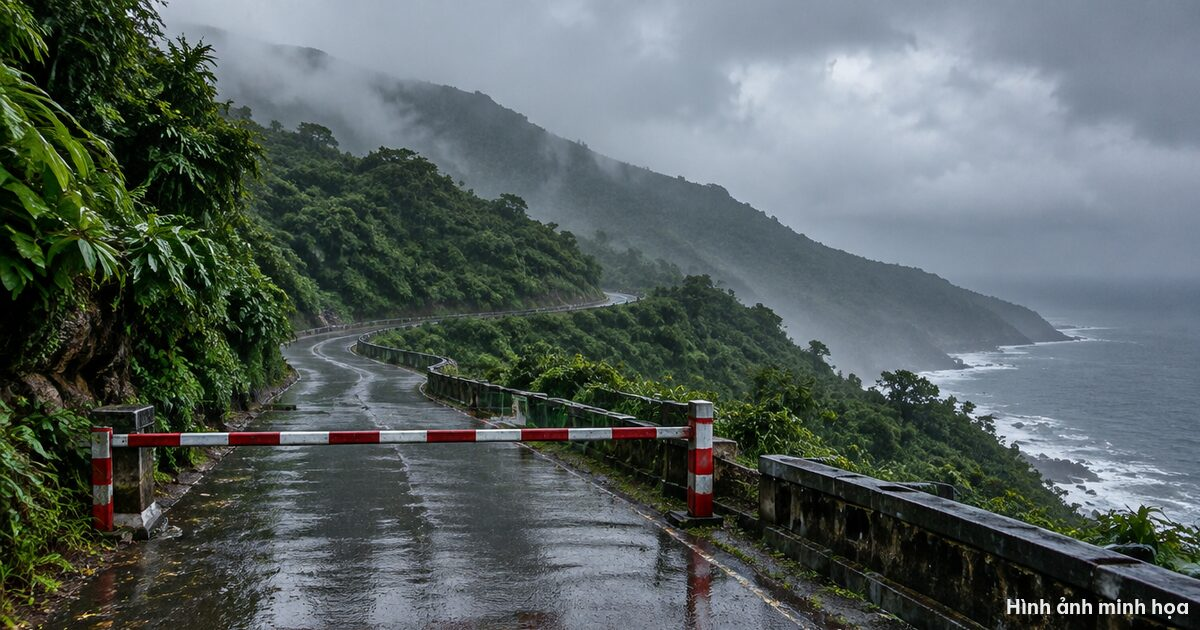
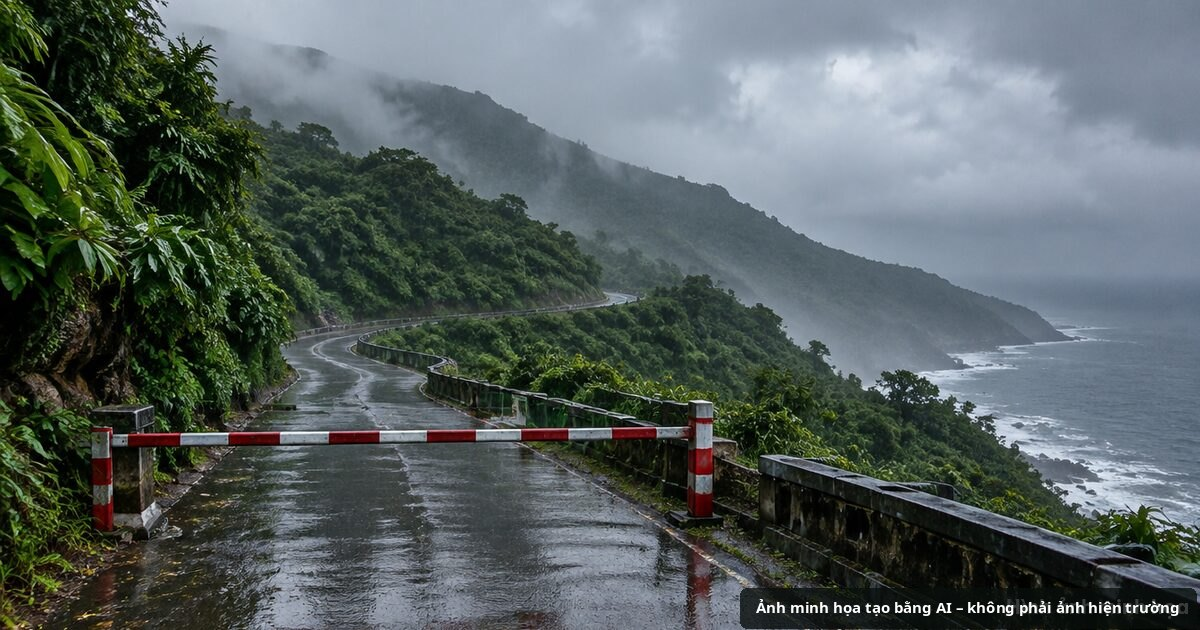
content: sửa 2 bài tin 09–10/10 theo Review
Chỉnh câu chữ bài thanh khoản và bài tạm dừng Sơn Trà, gắn nhãn ảnh AI, thêm caption hero bài thanh khoản, cập nhật nguồn và giờ trên infographic Sơn Trà.

Changed region(s): [[0.6167, 0.9349, 1.0, 1.0]]

diff --git a/src/data/project.ts b/src/data/project.ts
@@ -267,6 +267,8 @@ export type NewsArticle = {
   image: string;
   /** Alt for the cover / OG image. Falls back to the article title. */
   imageAlt?: string;
+  /** Optional caption under the article hero. Other articles omit it. */
+  imageCaption?: string;
   poster?: string;
   /**
    * Optional Tailwind object-position for card/cover crops (e.g. "object-top").
@@ -308,15 +310,15 @@ export const NEWS: NewsArticle[] = [
     ],
     body: [
       {
-        text: "Ngày 08/10/2026, Ban Quản lý bán đảo Sơn Trà và các bãi biển du lịch Đà Nẵng (BQL) thông báo tạm dừng hoạt động tham quan tại bán đảo Sơn Trà từ ngày 08/10 cho đến khi có thông báo mới, do dự báo mưa to đến rất to, tiềm ẩn nguy cơ sạt lở đất và lũ quét. Đến tối 09/10, theo VTV, thành phố tiếp tục tạm dừng tham quan và chỉ mở lại khi điều kiện an toàn được bảo đảm. Bài viết cập nhật tình hình đến sáng 10/10/2026, nối tiếp bài lưu ý lên bán đảo tháng 10 đăng ngày 06/10. Đây là tin địa phương tổng hợp, không phải thông báo của BQL và không phải thông cáo của The Camellia Sơn Trà.",
+        text: "Ngày 08/10/2026, Ban Quản lý bán đảo Sơn Trà và các bãi biển du lịch Đà Nẵng (BQL) thông báo tạm dừng hoạt động tham quan tại bán đảo Sơn Trà từ ngày 08/10 cho đến khi có thông báo mới, do dự báo mưa to đến rất to, tiềm ẩn nguy cơ sạt lở đất và lũ quét. Đến tối 09/10, theo VTV, thành phố tiếp tục tạm dừng tham quan và chỉ mở lại khi điều kiện an toàn được bảo đảm. Bài viết cập nhật tình hình đến 17h30 ngày 10/10/2026, nối tiếp bài lưu ý lên bán đảo tháng 10 đăng ngày 06/10. Đây là tin địa phương tổng hợp, không phải thông báo của BQL và không phải thông cáo của The Camellia Sơn Trà.",
       },
       {
         heading: "Tóm tắt nhanh (đọc trong 30 giây)",
-        text: "• Từ 08/10/2026: tạm dừng toàn bộ hoạt động tham quan bán đảo Sơn Trà, đến khi có thông báo mới; thời điểm mở lại chưa được xác định. • Lý do: mưa to đến rất to từ chiều tối 07/10; đất gần bão hòa; nguy cơ sạt lở taluy, đá rơi, cây gãy đổ, nước chảy xiết trên đường đèo. • Khuyến cáo: không tự ý lên bán đảo, kể cả khi trời tạnh; không dừng xe gần vách núi, taluy, dưới cây lớn; gặp đoạn ngập hoặc đất đá chắn lối thì quay lại. • Dự báo (bản tin PCTT TP ngày 09/10): 10–11/10 còn có nơi mưa vừa đến mưa to và dông; từ 14/10 mưa có xu hướng giảm. • Khi mở lại, giờ tham quan tháng 10 đến hết tháng 2 là 7h30–17h30.",
+        text: "• Từ 08/10/2026: tạm dừng hoạt động tham quan bán đảo Sơn Trà đến khi có thông báo mới; thời điểm mở lại chưa được xác định. • Lý do: mưa to đến rất to từ chiều tối 07/10; đất gần bão hòa; nguy cơ sạt lở taluy, đá rơi, cây gãy đổ, nước chảy xiết trên đường đèo. • Khuyến cáo: không tự ý lên bán đảo, kể cả khi trời tạnh; không dừng xe gần vách núi, taluy, dưới cây lớn; gặp đoạn ngập hoặc đất đá chắn lối thì quay lại. • Dự báo (Đài KTTV Trung Bộ, bản tin ngày 09/10): 10–11/10 còn có nơi mưa vừa đến mưa to và dông; từ 14/10 mưa có xu hướng giảm. • Khi mở lại, giờ tham quan tháng 10 đến hết tháng 2 là 7h30–17h30.",
       },
       {
         heading: "Vì sao phải tạm dừng?",
-        text: "Theo VnExpress (08/10/2026), Trung tâm Dự báo Khí tượng Thủy văn quốc gia cho biết mưa to đến rất to tại Đà Nẵng kéo dài từ chiều tối 07/10 đến đêm 08/10, sau đó giảm dần từ 09/10; nhiều tuyến đường phía nam thành phố ngập sâu gần nửa mét. BQL cho biết khu vực bán đảo thường có dông lốc và gió mạnh; các tuyến đường nhiều đoạn đèo dốc, khúc cua gấp, dễ trơn trượt khi mưa, sương mù làm hạn chế tầm nhìn, cùng nguy cơ cây gãy đổ, đá rơi từ vách núi và nước chảy xiết trên mặt đường. Bản tin cảnh báo lũ quét, sạt lở đất chiều 08/10 của cơ quan phòng chống thiên tai TP Đà Nẵng ghi nhận độ ẩm đất trên địa bàn đã gần bão hòa (80–90%) và liệt kê phường Sơn Trà trong danh sách cần lưu ý, đặc biệt các taluy dọc đường bê tông, đường nhựa gần Nhà Vọng Cảnh và taluy đường Hoàng Sa.",
+        text: "Theo VnExpress (08/10/2026), Trung tâm Dự báo Khí tượng Thủy văn quốc gia cho biết mưa to đến rất to tại Đà Nẵng kéo dài từ chiều tối 07/10 đến đêm 08/10, sau đó giảm dần từ 09/10; nhiều tuyến đường phía nam thành phố ngập sâu gần nửa mét. BQL cho biết khu vực bán đảo thường có dông lốc và gió mạnh; các tuyến đường nhiều đoạn đèo dốc, khúc cua gấp, dễ trơn trượt khi mưa, sương mù làm hạn chế tầm nhìn, cùng nguy cơ cây gãy đổ, đá rơi từ vách núi và nước chảy xiết trên mặt đường. Tin cảnh báo lũ quét, sạt lở đất lúc 15h30 ngày 08/10 của Đài Khí tượng Thủy văn Trung Bộ (đăng trên cổng pctt.danang.gov.vn) ghi nhận độ ẩm đất trên địa bàn đã gần bão hòa (80–90%) và liệt kê phường Sơn Trà trong danh sách cần lưu ý, đặc biệt các taluy dọc đường bê tông, đường nhựa gần Nhà Vọng Cảnh và taluy đường Hoàng Sa.",
         image: "/images/news-tamdung-body.webp",
         imageAlt:
           "Infographic tổng hợp: bán đảo Sơn Trà tạm dừng tham quan từ 08/10/2026, lý do mưa lớn và nguy cơ sạt lở, những điều không nên làm và thông tin mở lại — theo BQL bán đảo Sơn Trà và báo chí",
@@ -327,7 +329,7 @@ export const NEWS: NewsArticle[] = [
       },
       {
         heading: "Khi nào mở lại? Theo dõi ở đâu?",
-        text: "Đến sáng 10/10/2026 chưa có thông báo chính thức về thời điểm mở lại. Bản tin dự báo thời tiết 10 ngày do cơ quan phòng chống thiên tai TP Đà Nẵng phát hành chiều 09/10 cho biết các ngày 10–13/10 có mưa rào rải rác, riêng 10–11/10 có nơi mưa vừa đến mưa to và dông; từ 14–19/10 mưa có xu hướng giảm, có ngày nắng. Đây là dự báo, không phải lịch mở cửa — anh chị nên theo dõi thông báo của BQL bán đảo Sơn Trà và các bãi biển du lịch Đà Nẵng, cổng thông tin TP Đà Nẵng hoặc báo chí chính thống trước khi lên kế hoạch. Khi tham quan được mở lại, khung giờ mùa thấp điểm (tháng 10 đến hết tháng 2) là 7h30–17h30 và các quy định về tuyến, phương tiện vẫn áp dụng như bài tổng hợp ngày 06/10.",
+        text: "Đến chiều 10/10/2026 chưa có thông báo chính thức về thời điểm mở lại. Tin dự báo lúc 15h30 ngày 10/10 của Đài KTTV Trung Bộ cho biết từ chiều tối 10/10 đến sáng 11/10 Đà Nẵng còn mưa, có nơi mưa to và dông. Bản tin dự báo thời tiết 10 ngày của Đài KTTV Trung Bộ phát lúc 15h30 ngày 09/10 (đăng trên cổng pctt.danang.gov.vn) cho biết các ngày 10–13/10 có mưa rào rải rác, riêng 10–11/10 có nơi mưa vừa đến mưa to và dông; từ 14–19/10 mưa có xu hướng giảm, có ngày nắng. Đây là dự báo, không phải lịch mở cửa — anh chị nên theo dõi thông báo của BQL bán đảo Sơn Trà và các bãi biển du lịch Đà Nẵng, cổng thông tin TP Đà Nẵng hoặc báo chí chính thống trước khi lên kế hoạch. Khi tham quan được mở lại, khung giờ mùa thấp điểm (tháng 10 đến hết tháng 2) là 7h30–17h30 và các quy định về tuyến, phương tiện vẫn áp dụng như bài tổng hợp ngày 06/10.",
         links: [
           {
             to: "/tin-tuc/luu-y-len-ban-dao-son-tra-thang-10-2026",
@@ -341,7 +343,7 @@ export const NEWS: NewsArticle[] = [
       },
       {
         heading: "Góc nhìn mềm từ The Camellia Sơn Trà",
-        text: "Mùa mưa từ tháng 10 đến tháng 2 là một phần nhịp sống của Sơn Trà; việc cơ quan quản lý chủ động tạm dừng tham quan thay vì chờ sự cố là thông tin hữu ích cho cư dân khi sắp xếp lịch đi dạo, đưa gia đình lên bán đảo. Bài viết không suy diễn tác động lên giá bất động sản. Nếu anh chị đang tìm căn hộ sở hữu lâu dài gần khu vực, The Camellia Sơn Trà nằm tại giao lộ Lê Văn Lương – Lê Đức Thọ, P. Sơn Trà; theo thông tin dự án, khoảng 200 m tới biển Mân Thái và khoảng 5 phút tới Bán đảo Sơn Trà. Dự án 469 căn, giá từ 1,98 tỷ; CĐT Công ty TNHH Địa ốc Thành Lâm · Phát triển MBLAND · Kinh doanh WELAND · Phân phối DKRA Virgo; bàn giao dự kiến khoảng 2028. Anh chị có thể để lại nhu cầu tại trang Liên hệ, nhắn Zalo / gọi Hotline 0934 885 108, hoặc ghé Camellia Gallery — Tầng 9, Bạch Đằng Complex (Đà Nẵng) để xem sa bàn và nhận bảng giá cập nhật.",
+        text: "Mùa mưa từ tháng 10 đến tháng 2 là một phần nhịp sống của Sơn Trà; việc cơ quan quản lý chủ động tạm dừng tham quan thay vì chờ sự cố là thông tin hữu ích cho cư dân khi sắp xếp lịch đi dạo, đưa gia đình lên bán đảo. Bài viết không suy diễn tác động lên giá bất động sản. Nếu anh chị đang tìm căn hộ sở hữu lâu dài gần khu vực, The Camellia Sơn Trà nằm tại giao lộ Lê Văn Lương – Lê Đức Thọ, P. Sơn Trà; theo thông tin dự án, khoảng 200 m tới biển Mân Thái. Dự án 469 căn, giá từ 1,98 tỷ; CĐT Công ty TNHH Địa ốc Thành Lâm · Phát triển MBLAND · Kinh doanh WELAND · Phân phối DKRA Virgo; bàn giao dự kiến khoảng 2028. Anh chị có thể để lại nhu cầu tại trang Liên hệ, nhắn Zalo / gọi Hotline 0934 885 108, hoặc ghé Camellia Gallery — Tầng 9, Bạch Đằng Complex (Đà Nẵng) để xem sa bàn và nhận bảng giá cập nhật.",
         links: [
           {
             to: "/tin-tuc/can-ho-son-tra-so-huu-lau-dai",
@@ -373,6 +375,7 @@ export const NEWS: NewsArticle[] = [
     image: "/images/news-thanh-khoan-og.jpg",
     imageAlt:
       "Hình ảnh minh họa (tạo bằng AI): toàn cảnh Đà Nẵng lúc hoàng hôn — sông Hàn, cầu Rồng, dãy cao ốc và đường ven biển",
+    imageCaption: "Ảnh minh họa tạo bằng AI",
     poster: "/images/news-thanh-khoan-hero.webp",
     imageObjectClass: "object-top",
     gallery: [
@@ -386,7 +389,7 @@ export const NEWS: NewsArticle[] = [
       },
       {
         heading: "Tóm tắt nhanh (đọc trong 30 giây)",
-        text: "• Quý II/2026, căn hộ sơ cấp Đà Nẵng ghi nhận khoảng 5.090 căn đang mở bán (+47% so với quý trước); giao dịch khoảng 2.793 căn (+54%), tỷ lệ hấp thụ khoảng 55% — nhưng phần lớn từ dự án mới và chủ đầu tư lớn. • Căn hộ hạng A–B chiếm khoảng 88% nguồn cung và 93% lượng tiêu thụ; Ngũ Hành Sơn khoảng 45–46% nguồn cung / tiêu thụ. • Đất nền: khoảng 1.470 sản phẩm sơ cấp (−13%), chỉ khoảng 62 nền giao dịch (−71%), tỷ lệ hấp thụ khoảng 4%. • Biệt thự nghỉ dưỡng: khoảng 9/167 căn (~5%); nhà phố / shophouse nghỉ dưỡng gần như không phát sinh giao dịch; condotel chỉ khoảng 1 giao dịch cả quý dù nguồn cung còn hơn 1.200 căn. • Sang tháng 7–8/2026, sức cầu căn hộ và đất nền đều chậm lại khi lãi suất vay mua nhà vẫn neo cao.",
+        text: "• Quý II/2026, căn hộ sơ cấp Đà Nẵng ghi nhận khoảng 5.090 căn đang mở bán (+47% so với quý trước); giao dịch khoảng 2.793 căn (+54%), tỷ lệ hấp thụ khoảng 55% — nhưng phần lớn từ dự án mới và chủ đầu tư lớn. • Căn hộ hạng A–B chiếm khoảng 88% nguồn cung và 93% lượng tiêu thụ; Ngũ Hành Sơn khoảng 45–46% nguồn cung / tiêu thụ. • Đất nền: khoảng 1.470 sản phẩm sơ cấp (−13%), chỉ khoảng 62 nền giao dịch (−71%), tỷ lệ hấp thụ khoảng 4%. • Biệt thự nghỉ dưỡng: khoảng 9/167 căn (~5%); nhà phố / shophouse nghỉ dưỡng gần như không phát sinh giao dịch; condotel chỉ ghi nhận 1 giao dịch cả quý dù nguồn cung còn khoảng 1.234 căn. • Sang tháng 8/2026, sức cầu căn hộ và đất nền đều giảm so với tháng trước khi lãi suất vay mua nhà vẫn neo cao (tháng 7 đất nền có nhích lên nhưng hấp thụ chỉ khoảng 3%).",
       },
       {
         heading: "Căn hộ: cải thiện chọn lọc, chưa phải phục hồi đồng đều",
@@ -404,7 +407,7 @@ export const NEWS: NewsArticle[] = [
       },
       {
         heading: "Đất nền: hấp thụ rất thấp — khoảng 4% nguồn cung sơ cấp",
-        text: "Trái ngược căn hộ, đất nền tiếp tục là phân khúc kém sôi động. DKRA ghi nhận toàn thị trường còn khoảng 1.470 nền sơ cấp (giảm 13% so với quý trước), toàn bộ từ hàng đã mở bán trước đó; lượng giao dịch chỉ khoảng 62 nền (giảm 71%), tương đương tỷ lệ hấp thụ khoảng 4%. Giá sơ cấp gần như đi ngang nhưng vẫn neo cao do chi phí đầu vào; giá thứ cấp ít biến động. VietnamFinance (tháng 7/2026) cũng nêu sức cầu đất nền chỉ khoảng 3% nguồn cung sơ cấp. Sang tháng 8/2026, báo chí dẫn DKRA cho biết cả tháng chỉ tiêu thụ khoảng 11 nền, lượng tiêu thụ giảm khoảng 74% so với tháng trước. Với người đang cân nhắc đất nền, con số hấp thụ thấp là lời nhắc: niêm yết cao không đồng nghĩa giao dịch được — cần kiểm tra pháp lý, hạ tầng thực tế và khả năng giữ vốn dài hạn.",
+        text: "Trái ngược căn hộ, đất nền tiếp tục là phân khúc kém sôi động. DKRA ghi nhận toàn thị trường còn khoảng 1.470 nền sơ cấp (giảm 13% so với quý trước), toàn bộ từ hàng đã mở bán trước đó; lượng giao dịch chỉ khoảng 62 nền (giảm 71%), tương đương tỷ lệ hấp thụ khoảng 4%. Giá sơ cấp gần như đi ngang nhưng vẫn neo cao do chi phí đầu vào; giá thứ cấp ít biến động. Riêng tháng 7/2026, theo bản tin tháng của DKRA (VietnamFinance đăng ngày 25/08/2026), lượng tiêu thụ đất nền chỉ khoảng 3% nguồn cung sơ cấp. Sang tháng 8/2026, báo chí dẫn DKRA cho biết cả tháng chỉ tiêu thụ khoảng 11 nền, lượng tiêu thụ giảm khoảng 74% so với tháng trước. Với người đang cân nhắc đất nền, con số hấp thụ thấp là lời nhắc: niêm yết cao không đồng nghĩa giao dịch được — cần kiểm tra pháp lý, hạ tầng thực tế và khả năng giữ vốn dài hạn.",
         image: "/images/news-thanh-khoan-body.webp",
         imageAlt:
           "Infographic minh họa phân hóa thanh khoản BĐS Đà Nẵng 2026: căn hộ — thanh khoản chọn lọc; đất nền — hấp thụ thấp; nghỉ dưỡng — trầm lắng",
@@ -417,11 +420,11 @@ export const NEWS: NewsArticle[] = [
       },
       {
         heading: "Nghỉ dưỡng / condotel: gần như «ngủ đông»",
-        text: "Nhóm bất động sản nghỉ dưỡng vẫn trầm lắng dù du lịch Đà Nẵng phục hồi. Quý II/2026, biệt thự nghỉ dưỡng tiêu thụ khoảng 9 căn trên 167 căn nguồn cung (~5% hấp thụ); nhà phố / shophouse nghỉ dưỡng hầu như không phát sinh giao dịch mới; condotel chỉ khoảng 1 giao dịch cả quý dù nguồn cung còn khoảng 1.234 căn. VietnamFinance (tháng 7) và các bài đăng lại DKRA tháng 7–8 mô tả nhà phố / shophouse nghỉ dưỡng gần như không giao dịch, condotel chủ yếu là hàng tồn kho (>99% ở một số kỳ báo cáo), vướng pháp lý và tiến độ kéo dài khiến nhà đầu tư thận trọng. Du lịch tăng là nền tảng tích cực cho dịch vụ và việc làm, nhưng chưa đủ để «đánh thức» thanh khoản nghỉ dưỡng trong ngắn hạn.",
+        text: "Nhóm bất động sản nghỉ dưỡng vẫn trầm lắng dù du lịch Đà Nẵng phục hồi. Quý II/2026, biệt thự nghỉ dưỡng tiêu thụ khoảng 9 căn trên 167 căn nguồn cung (~5% hấp thụ); nhà phố / shophouse nghỉ dưỡng hầu như không phát sinh giao dịch mới; condotel chỉ ghi nhận 1 giao dịch cả quý dù nguồn cung còn khoảng 1.234 căn. VietnamFinance (tháng 7) và các bài đăng lại DKRA tháng 7–8 mô tả nhà phố / shophouse nghỉ dưỡng gần như không giao dịch, condotel chủ yếu là hàng tồn kho (>99% ở một số kỳ báo cáo), vướng pháp lý và tiến độ kéo dài khiến nhà đầu tư thận trọng. Du lịch tăng là nền tảng tích cực cho dịch vụ và việc làm, nhưng chưa đủ để «đánh thức» thanh khoản nghỉ dưỡng trong ngắn hạn.",
       },
       {
-        heading: "Tháng 7–8/2026: sức cầu chậm lại trên diện rộng",
-        text: "Sau nhịp Q2, các báo cáo tháng của DKRA cho thấy cả căn hộ và đất nền đều chịu áp lực. Tháng 8/2026: nguồn cung sơ cấp căn hộ giảm khoảng 23% so với tháng trước, hơn 94% đến từ tồn kho; lượng tiêu thụ căn hộ giảm khoảng 39% MoM và khoảng 26% so với cùng kỳ; Ngũ Hành Sơn vẫn dẫn đầu khoảng 39% nguồn cung và 63% tiêu thụ sơ cấp. Giá sơ cấp căn hộ đi ngang; giá thứ cấp giảm khoảng 1%. Bối cảnh chung: lãi suất vay mua nhà vẫn neo cao, tín dụng thận trọng — đúng với phân tích trong bài lãi suất >10% trên website này. DKRA dự báo Q3/2026 nguồn cung căn hộ mới có thể chỉ khoảng 1.500–2.000 căn; đất nền nguồn cung mới khoảng 100–200 sản phẩm; thanh khoản tiếp tục chọn lọc theo pháp lý và uy tín chủ đầu tư.",
+        heading: "Tháng 7–8/2026: thanh khoản vẫn thấp, tháng 8 giảm trên diện rộng",
+        text: "Sau nhịp Q2, các báo cáo tháng của DKRA cho thấy cả căn hộ và đất nền đều chịu áp lực: tháng 7 đất nền tăng giao dịch nhưng hấp thụ chỉ khoảng 3%, sang tháng 8 lượng tiêu thụ giảm mạnh. Tháng 8/2026: nguồn cung sơ cấp căn hộ giảm khoảng 23% so với tháng trước, hơn 94% đến từ tồn kho; lượng tiêu thụ căn hộ giảm khoảng 39% MoM và khoảng 26% so với cùng kỳ; Ngũ Hành Sơn vẫn dẫn đầu khoảng 39% nguồn cung và 63% tiêu thụ sơ cấp. Giá sơ cấp căn hộ đi ngang; giá thứ cấp giảm khoảng 1%. Bối cảnh chung: lãi suất vay mua nhà vẫn neo cao, tín dụng được kiểm soát thận trọng (theo DKRA). DKRA dự báo Q3/2026 nguồn cung căn hộ mới có thể chỉ khoảng 1.500–2.000 căn; đất nền nguồn cung mới khoảng 100–200 sản phẩm; thanh khoản tiếp tục chọn lọc theo pháp lý và uy tín chủ đầu tư.",
       },
       {
         heading: "Người mua ở thật nên đọc phân hóa thế nào?",
@@ -439,7 +442,7 @@ export const NEWS: NewsArticle[] = [
       },
       {
         heading: "Góc nhìn mềm từ The Camellia Sơn Trà",
-        text: "Trong bối cảnh thanh khoản phân hóa, người mua để ở thường ưu tiên pháp lý rõ, loại hình nhà ở (không phải condotel), vị trí gần nhu cầu sống và khả năng thanh toán. The Camellia Sơn Trà là căn hộ sở hữu lâu dài: 469 căn, giá từ 1,98 tỷ; CĐT Công ty TNHH Địa ốc Thành Lâm · Phát triển MBLAND · Kinh doanh WELAND · Phân phối DKRA Virgo; giao lộ Lê Văn Lương – Lê Đức Thọ, P. Sơn Trà; bàn giao dự kiến khoảng 2028. Để nhận bảng giá và phương án thanh toán đúng đợt, anh chị để lại nhu cầu tại trang Liên hệ, nhắn Zalo / gọi Hotline 0934 885 108, hoặc ghé Camellia Gallery — Tầng 9, Bạch Đằng Complex (Da Nang Complex), Đà Nẵng.",
+        text: "Trong bối cảnh thanh khoản phân hóa, người mua để ở thường ưu tiên pháp lý rõ, loại hình nhà ở (không phải condotel), vị trí gần nhu cầu sống và khả năng thanh toán. The Camellia Sơn Trà là căn hộ sở hữu lâu dài: 469 căn, giá từ 1,98 tỷ; CĐT Công ty TNHH Địa ốc Thành Lâm · Phát triển MBLAND · Kinh doanh WELAND · Phân phối DKRA Virgo; giao lộ Lê Văn Lương – Lê Đức Thọ, P. Sơn Trà; bàn giao dự kiến khoảng 2028. Để nhận bảng giá và phương án thanh toán đúng đợt, anh chị để lại nhu cầu tại trang Liên hệ, nhắn Zalo / gọi Hotline 0934 885 108, hoặc ghé Camellia Gallery — Tầng 9, Bạch Đằng Complex, Đà Nẵng.",
         links: [
           {
             to: "/tin-tuc/gia-the-camellia-son-tra-tu-1-98-ty",
@@ -450,7 +453,7 @@ export const NEWS: NewsArticle[] = [
       },
       {
         heading: "Nguồn & lưu ý",
-        text: "Nguồn: DKRA Consulting — Báo cáo thị trường BĐS nhà ở TP. Đà Nẵng quý II/2026 (pdf dkra.vn) và các bài đăng lại / diễn đạt lại số liệu: stockproxx.com (02/08/2026), CafeF (16/07/2026); VietnamFinance về nhà phố / shophouse nghỉ dưỡng tháng 7/2026 (25/08/2026); báo chí dẫn DKRA tháng 8/2026 về đất nền (khoảng 11 nền) và căn hộ (tiêu thụ −39% MoM) — nhịp sống kinh doanh / thương trường. Infographic do website tổng hợp ý chính phân hóa, không invent thêm tỷ lệ ngoài nguồn đã nêu. Ảnh đầu bài là hình ảnh minh họa (tạo bằng AI), không phải ảnh thực tế dự án. Bài là tin thị trường tổng hợp trên website dự án; không phải thông cáo The Camellia / DKRA, không phải tư vấn đầu tư, không cam kết giá, lợi nhuận cho thuê hay thanh khoản. Giá / chính sách The Camellia chỉ đúng theo bảng giá và phụ lục tại thời điểm ký — giá sàn website từ 1,98 tỷ.",
+        text: "Nguồn: DKRA Consulting — Báo cáo thị trường BĐS nhà ở TP. Đà Nẵng quý II/2026 (pdf dkra.vn) và các bài đăng lại / diễn đạt lại số liệu: Người Quan Sát (02/08/2026, theo Kiến thức Đầu tư), CafeF (16/07/2026); VietnamFinance về nhà phố / shophouse nghỉ dưỡng tháng 7/2026 (25/08/2026); báo chí dẫn DKRA tháng 8/2026 về đất nền (khoảng 11 nền) và căn hộ (tiêu thụ −39% MoM) — nhịp sống kinh doanh / thương trường. Infographic do website tổng hợp ý chính về sự phân hóa, không thêm tỷ lệ nào ngoài các nguồn đã nêu. Ảnh đầu bài là hình ảnh minh họa (tạo bằng AI), không phải ảnh thực tế dự án. Bài là tin thị trường tổng hợp trên website dự án; không phải thông cáo The Camellia / DKRA, không phải tư vấn đầu tư, không cam kết giá, lợi nhuận cho thuê hay thanh khoản. Giá / chính sách The Camellia chỉ đúng theo bảng giá và phụ lục tại thời điểm ký — giá sàn website từ 1,98 tỷ.",
       },
     ],
   },

diff --git a/src/routes/tin-tuc.$slug.tsx b/src/routes/tin-tuc.$slug.tsx
@@ -134,6 +134,9 @@ function ArticlePage() {
             heroClickable && "cursor-zoom-in",
           )}
         />
+        {article.imageCaption ? (
+          <p className="mt-2 text-sm text-muted">{article.imageCaption}</p>
+        ) : null}
         {article.youtubeId ? (
           <NewsYoutube
             id={article.youtubeId}
